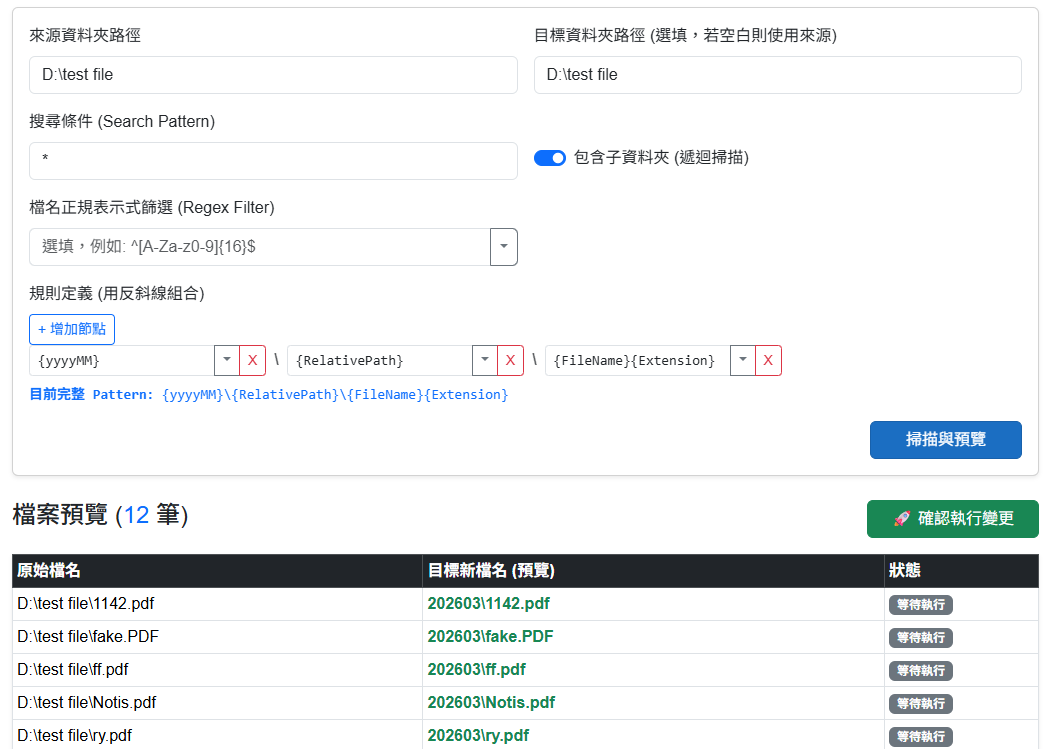
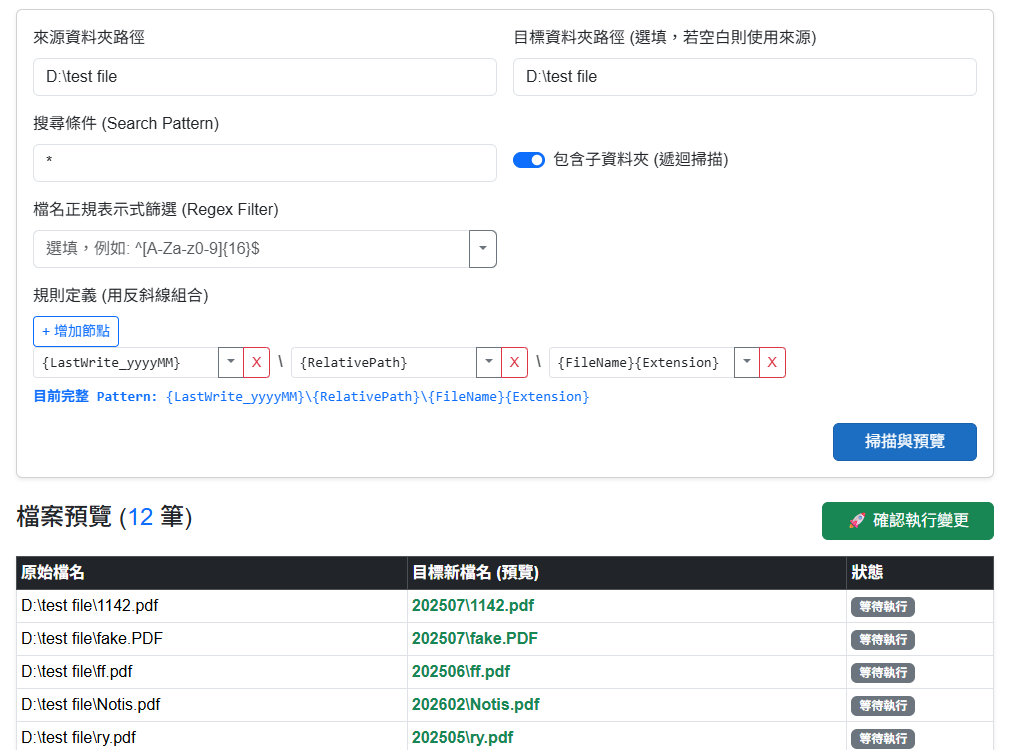
docs: 建立日期、修改日期部分更新

diff --git a/README.md b/README.md
@@ -17,8 +17,10 @@
     - `{RelativePath}`：相對路徑
     - `{FileName}`：原檔名
     - `{Extension}`：副檔名
-    - `{yyyyMMdd}`：建立日期
-    - `{yyyyMM}`：建立年月
+    - `{Creation_yyyyMMdd}`：建立日期
+    - `{Creation_yyyyMM}`：建立年月
+    - `{LastWrite_yyyyMMdd}`：修改日期
+    - `{LastWrite_yyyyMM}`：修改年月
     - `{FileName.Split('_')[0]}`：底線拆分取首段
     - `{FileName.Substring(0, 3)}`：取前三字元
 
@@ -45,12 +47,12 @@
 ## 範例
 
 ### 依建立年月歸檔（本專案預設）
-- 本專案預設提供的 Pattern 能將選擇的檔案依照檔案建立年月動態分類到子資料夾中
-  - `{yyyyMM}`：會動態解析為檔案建立的西元年與月份（例如：`202310`），作為最外層分類資料夾。
+- 本專案預設提供的 Pattern 能將選擇的檔案依照檔案最後修改年月動態分類到子資料夾中
+  - `{LastWrite_yyyyMM}`：會動態解析為檔案最後修改的西元年與月份（例如：`202310`），作為最外層分類資料夾。
   - `{RelativePath}`：保留從掃描來源取得的原始相對目錄結構。
   - `{FileName}{Extension}`：保留原本的檔名與副檔名。
 ```csharp
-{yyyyMM}\{RelativePath}\{FileName}{Extension}
+{LastWrite_yyyyMM}\{RelativePath}\{FileName}{Extension}
 ```
 
 ### FlattenFilesToRoot
